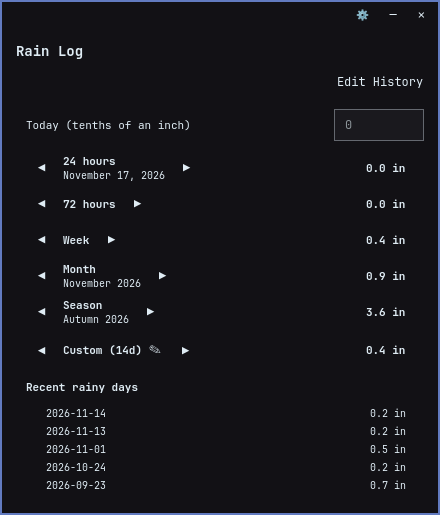
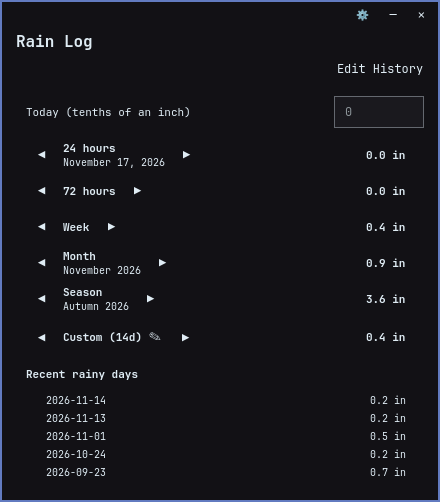
Tighten the header and auto-fit the window

diff --git a/qml/Main.qml b/qml/Main.qml
@@ -14,20 +14,28 @@ Window {
   color: Theme.cornerRadius > 0 ? "transparent" : Theme.popupsBackground
 
   width: Config.windowWidth
-  // A sensible first paint; then the card's measured height takes over until
-  // the user resizes the window, which breaks the binding and pins the size.
-  property bool measured: false
-  // Set when the user drags one of the resize edges. Only then is the window
-  // size worth remembering; otherwise the card keeps fitting its content.
-  // A saved height means the size already came from a resize.
+  // A sensible first paint; the window then follows the card's measured
+  // height through one coalesced update after the layout settles. A user
+  // resize pins the current height instead of fighting the measurement.
   property bool userSized: Config.windowHeight > 0
+  property int pinnedHeight: Config.windowHeight > 0 ? Config.windowHeight : 0
+  property int targetWindowHeight: 490
   readonly property int fittedHeight: Math.max(120, titleBar.height + content.naturalHeight)
+  readonly property bool autoFitAllowed: Host.screenshotMode
+    || (Config.windowHeight <= 0 && !window.userSized)
   height: !Host.screenshotMode && Config.windowHeight > 0
     ? Config.windowHeight
-    : (measured ? fittedHeight : 490)
+    : (window.userSized ? window.pinnedHeight : window.targetWindowHeight)
   minimumWidth: 400
   minimumHeight: 180
 
+  // Layouts only report their implicit heights after a polish pass and may do
+  // so more than once. Coalesce those updates and apply one final size.
+  function scheduleAutoFit() {
+    if (!window.autoFitAllowed)
+      return
+    autoFitTimer.restart()
+  }
   function syncTheme() {
     Theme.load(ThemeSource.colorsToml, ThemeSource.shellToml, ThemeSource.userShellToml)
     Theme.cornerRadius = ThemeSource.cornerRadius
@@ -41,16 +49,29 @@ Window {
     var view = Host.startupView
     if (view === "settings") content.settingsMode = true
     else if (view === "history") content.historyMode = true
+    window.scheduleAutoFit()
   }
 
-  // Layouts only report their implicit heights after a polish pass, so wait for
-  // the first real measurement before following the card's height.
   Connections {
     target: content
-    function onNaturalHeightChanged() {
-      if (!window.measured && content.naturalHeight > 100)
-        window.measured = true
+    function onNaturalHeightChanged() { window.scheduleAutoFit() }
+  }
+
+  Timer {
+    id: autoFitTimer
+    interval: 32
+    repeat: false
+    onTriggered: {
+      if (window.autoFitAllowed && window.targetWindowHeight !== window.fittedHeight) {
+        window.targetWindowHeight = window.fittedHeight
+        Host.requestWindowResize(window.width, window.fittedHeight)
+      }
     }
+  }
+
+  onHeightChanged: {
+    if (window.userSized && window.pinnedHeight !== window.height)
+      window.pinnedHeight = window.height
   }
 
   Timer {
@@ -182,7 +203,7 @@ Window {
     anchors.bottom: parent.bottom
     width: 5
     cursorShape: Qt.SizeHorCursor
-    onPressed: { window.userSized = true; window.startSystemResize(Qt.LeftEdge) }
+    onPressed: { window.userSized = true; window.pinnedHeight = window.height; window.startSystemResize(Qt.LeftEdge) }
   }
 
   MouseArea {
@@ -191,7 +212,7 @@ Window {
     anchors.bottom: parent.bottom
     width: 5
     cursorShape: Qt.SizeHorCursor
-    onPressed: { window.userSized = true; window.startSystemResize(Qt.RightEdge) }
+    onPressed: { window.userSized = true; window.pinnedHeight = window.height; window.startSystemResize(Qt.RightEdge) }
   }
 
   MouseArea {
@@ -200,7 +221,7 @@ Window {
     anchors.right: parent.right
     height: 5
     cursorShape: Qt.SizeVerCursor
-    onPressed: { window.userSized = true; window.startSystemResize(Qt.TopEdge) }
+    onPressed: { window.userSized = true; window.pinnedHeight = window.height; window.startSystemResize(Qt.TopEdge) }
   }
 
   MouseArea {
@@ -209,7 +230,7 @@ Window {
     anchors.right: parent.right
     height: 5
     cursorShape: Qt.SizeVerCursor
-    onPressed: { window.userSized = true; window.startSystemResize(Qt.BottomEdge) }
+    onPressed: { window.userSized = true; window.pinnedHeight = window.height; window.startSystemResize(Qt.BottomEdge) }
   }
 
   MouseArea {
@@ -218,7 +239,7 @@ Window {
     width: 8
     height: 8
     cursorShape: Qt.SizeFDiagCursor
-    onPressed: { window.userSized = true; window.startSystemResize(Qt.TopLeftCorner) }
+    onPressed: { window.userSized = true; window.pinnedHeight = window.height; window.startSystemResize(Qt.TopLeftCorner) }
   }
 
   MouseArea {
@@ -227,7 +248,7 @@ Window {
     width: 8
     height: 8
     cursorShape: Qt.SizeBDiagCursor
-    onPressed: { window.userSized = true; window.startSystemResize(Qt.TopRightCorner) }
+    onPressed: { window.userSized = true; window.pinnedHeight = window.height; window.startSystemResize(Qt.TopRightCorner) }
   }
 
   MouseArea {
@@ -236,7 +257,7 @@ Window {
     width: 8
     height: 8
     cursorShape: Qt.SizeBDiagCursor
-    onPressed: { window.userSized = true; window.startSystemResize(Qt.BottomLeftCorner) }
+    onPressed: { window.userSized = true; window.pinnedHeight = window.height; window.startSystemResize(Qt.BottomLeftCorner) }
   }
 
   MouseArea {
@@ -245,6 +266,6 @@ Window {
     width: 8
     height: 8
     cursorShape: Qt.SizeFDiagCursor
-    onPressed: { window.userSized = true; window.startSystemResize(Qt.BottomRightCorner) }
+    onPressed: { window.userSized = true; window.pinnedHeight = window.height; window.startSystemResize(Qt.BottomRightCorner) }
   }
 }

diff --git a/shared/ui/RainLogContent.qml b/shared/ui/RainLogContent.qml
@@ -34,7 +34,7 @@ Item {
   // uses this only for its initial window size, so a resized window stays
   // resized.
   readonly property int naturalHeight: headerBlock.implicitHeight + Theme.space(12)
-    + contentColumn.implicitHeight + bottomPad + contentPadding * 2 + 4
+    + contentColumn.implicitHeight + bottomPad + contentPadding + 4
 
   focus: true
   Keys.onEscapePressed: {
@@ -158,7 +158,9 @@ Item {
   Item {
     id: inner
     anchors.fill: parent
-    anchors.margins: root.contentPadding
+    anchors.leftMargin: root.contentPadding
+    anchors.rightMargin: root.contentPadding
+    anchors.bottomMargin: root.contentPadding
 
     // The empty part of the header is the window's drag handle. Declared
     // before the row so the buttons stay clickable on top.
@@ -175,7 +177,14 @@ Item {
       id: headerBlock
       width: parent.width
       height: implicitHeight
-      spacing: Theme.space(6)
+      spacing: 0
+
+      // The title sits just under the control bar. Settings drops the small
+      // gap entirely so its title starts at the bar's own height.
+      Item {
+        width: 1
+        height: root.settingsMode ? 0 : Theme.space(3)
+      }
 
       // The card's title sits under the host's window controls, in the space
       // above the view action on the right.
@@ -184,9 +193,14 @@ Item {
         text: "Rain Log"
         color: Theme.foreground
         font.family: Theme.font.family
-        font.pixelSize: Theme.font.title
+        font.pixelSize: Theme.font.title + 2
         font.bold: true
         width: parent.width
+      }
+
+      Item {
+        width: 1
+        height: Theme.space(1)
       }
 
       RowLayout {

diff --git a/src/apphost.h b/src/apphost.h
@@ -1,11 +1,14 @@
 #pragma once
 
 #include <QObject>
+#include <QProcess>
+#include <QStandardPaths>
 #include <QString>
+#include <QtGlobal>
 
-// Host-side hooks the QML window needs. Kept tiny on purpose: window
-// lifecycle work (minimize, close, resize) is plain Qt Quick, so the only
-// thing that needs C++ help is activation from a second launch.
+// Host-side hooks the QML window needs. Window lifecycle work (minimize,
+// close, ordinary resize) is plain Qt Quick; the C++ help is activation from
+// a second launch and Hyprland's mapped-window resize request.
 class AppHost : public QObject
 {
     Q_OBJECT
@@ -29,6 +32,28 @@ public:
 
     // Called by the single-instance IPC server in main.cpp.
     void notifyRaise() { emit raiseRequested(); }
+
+    // A mapped Wayland toplevel cannot reliably resize itself by changing its
+    // QML height. Ask Hyprland for the exact size instead; other platforms
+    // and compositors simply return false so Qt can handle the request.
+    Q_INVOKABLE bool requestWindowResize(int width, int height) const
+    {
+        if (m_screenshotMode)
+            return false;
+        if (width <= 0 || height <= 0)
+            return false;
+        if (qEnvironmentVariableIsEmpty("HYPRLAND_INSTANCE_SIGNATURE"))
+            return false;
+        if (QStandardPaths::findExecutable(QStringLiteral("hyprctl")).isEmpty())
+            return false;
+
+        const QString command = QStringLiteral(
+            "hl.dsp.window.resize({ x = %1, y = %2, relative = false, window = \"class:rainlog\" })")
+            .arg(width)
+            .arg(height);
+        return QProcess::startDetached(QStringLiteral("hyprctl"),
+                                       {QStringLiteral("--quiet"), QStringLiteral("dispatch"), command});
+    }
 
 signals:
     void raiseRequested();
